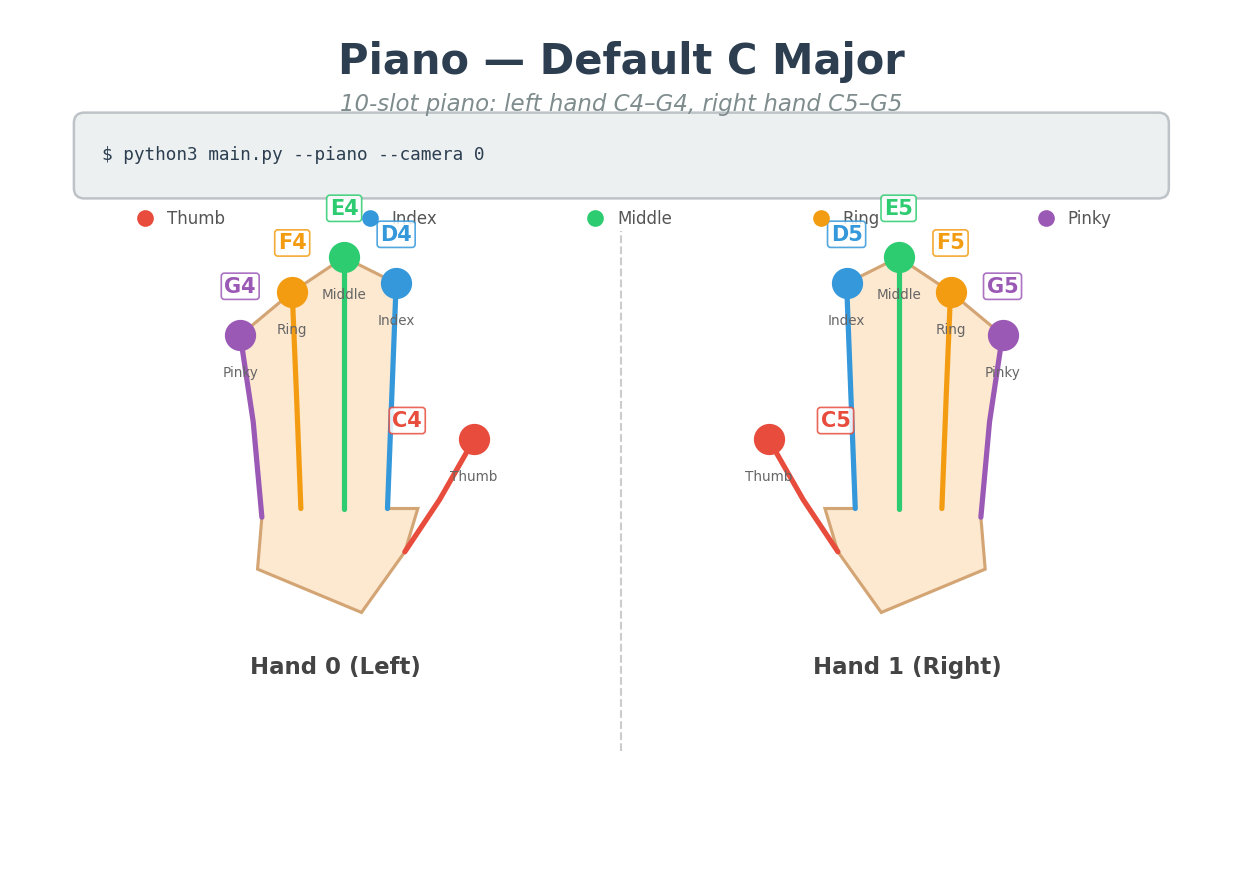
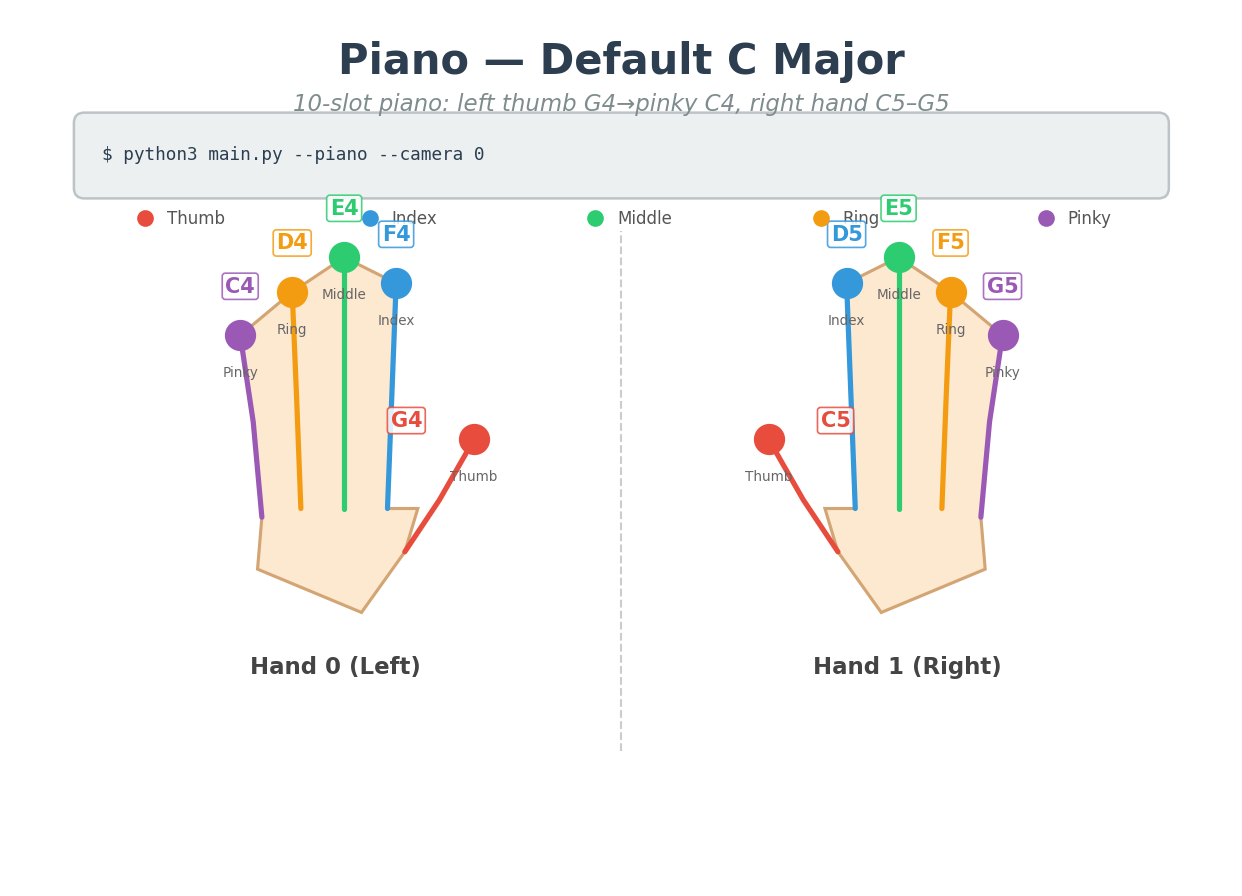
Correct left-hand piano mapping

diff --git a/air_drum_pad/drumkit_audio.py b/air_drum_pad/drumkit_audio.py
@@ -192,13 +192,13 @@ _PITCH_CLASS: dict[str, int] = {
 }
 
 # 손0(Left) 엄지→소지, 손1(Right) 엄지→소지.
-# Default fixed piano layout: left hand C4–G4, right hand C5–G5.
+# Default fixed piano layout: left hand G4→C4 (thumb→pinky), right hand C5→G5.
 PIANO_DEFAULT_SLOTS: tuple[str, ...] = (
-    "C4",
-    "D4",
-    "E4",
-    "F4",
     "G4",
+    "F4",
+    "E4",
+    "D4",
+    "C4",
     "C5",
     "D5",
     "E5",

diff --git a/air_drum_pad/tests/test_drumkit_audio.py b/air_drum_pad/tests/test_drumkit_audio.py
@@ -13,8 +13,8 @@ from drumkit_audio import (
 
 
 class DrumkitAudioTests(unittest.TestCase):
-    def test_piano_default_uses_c4_g4_left_and_c5_g5_right(self) -> None:
-        self.assertEqual(PIANO_DEFAULT_SLOTS[:5], ("C4", "D4", "E4", "F4", "G4"))
+    def test_piano_default_uses_descending_left_and_ascending_right(self) -> None:
+        self.assertEqual(PIANO_DEFAULT_SLOTS[:5], ("G4", "F4", "E4", "D4", "C4"))
         self.assertEqual(PIANO_DEFAULT_SLOTS[5:], ("C5", "D5", "E5", "F5", "G5"))
 
     def test_dynamic_piano_left_hand_descends_thumb_to_pinky(self) -> None:

diff --git a/air_drum_pad/tools/gen_instrument_diagrams.py b/air_drum_pad/tools/gen_instrument_diagrams.py
@@ -354,7 +354,7 @@ PRESETS: dict[str, dict] = {
     "piano_default": {
         "kind": "hand",
         "title": "Piano — Default C Major",
-        "subtitle": "10-slot piano: left hand C4–G4, right hand C5–G5",
+        "subtitle": "10-slot piano: left thumb G4→pinky C4, right hand C5–G5",
         "run_cmd": "python3 main.py --piano --camera 0",
         "slots": _default_piano_slots,
     },

diff --git a/air_drum_pad/README.md b/air_drum_pad/README.md
@@ -25,7 +25,7 @@
 
 - 실행: `python3 main.py --piano --camera 0`
   **`--instruments` 없이** 켜면 기본적으로 `instruments.piano.example.json`의 **고정 10키 매핑**을 사용합니다.
-  기본값은 왼손 **C4–G4**, 오른손 **C5–G5**입니다.
+  기본값은 왼손 엄지→소지 **G4–C4**, 오른손 엄지→소지 **C5–G5**입니다.
 - 다른 고정 음 배열을 쓰려면: `instruments.piano.example.json` 참고 후
   `python3 main.py --piano --instruments 내피아노.json --camera 0`
   (`slots` 값은 `C4`, `D#5`, `Bb3` 같은 **음명** 10개)

diff --git a/air_drum_pad/docs/SESSION_2026_05_26_TODO_IMPLEMENTATION.md b/air_drum_pad/docs/SESSION_2026_05_26_TODO_IMPLEMENTATION.md
@@ -6,7 +6,7 @@ Date: 2026-05-26
 
 - Fixed piano mapping diagrams so the left/right hand silhouettes match the existing `Hand 0 (Left)` and `Hand 1 (Right)` labels.
 - Replaced drum per-finger mapping diagrams with on-screen rectangle pad diagrams for default pads and the full drum sound catalog.
-- Corrected the piano default slots to left hand `C4, D4, E4, F4, G4` and right hand `C5, D5, E5, F5, G5`.
+- Corrected the piano default slots to left hand `G4, F4, E4, D4, C4` and right hand `C5, D5, E5, F5, G5`.
 - Updated runtime drum UI wording to describe rectangle pad hits instead of hand/finger-to-drum mapping.
 - Lengthened piano notes to about 0.5 seconds and extended short drum synthesized samples so hits remain audible longer.
 - Tuned strike responsiveness for both piano and drum modes:

diff --git a/air_drum_pad/docs/TODO_2026_05_18.md b/air_drum_pad/docs/TODO_2026_05_18.md
@@ -21,6 +21,6 @@ Implemented in code and regenerated assets:
 
 - Piano diagrams now show the correct left/right hand silhouettes while keeping the hand labels in place.
 - Drum diagrams and runtime sidebar now describe rectangle pad mode instead of fixed per-finger drum mapping.
-- Piano default notes now map left hand to C4–G4 and right hand to C5–G5.
+- Piano default notes now map left-hand thumb to G4 and pinky to C4, with right hand C5–G5.
 - Piano tones and short drum samples were lengthened so hits remain audible longer.
 - Default strike thresholds were made more responsive, with additional middle-finger sensitivity for both piano and drum pad detectors.